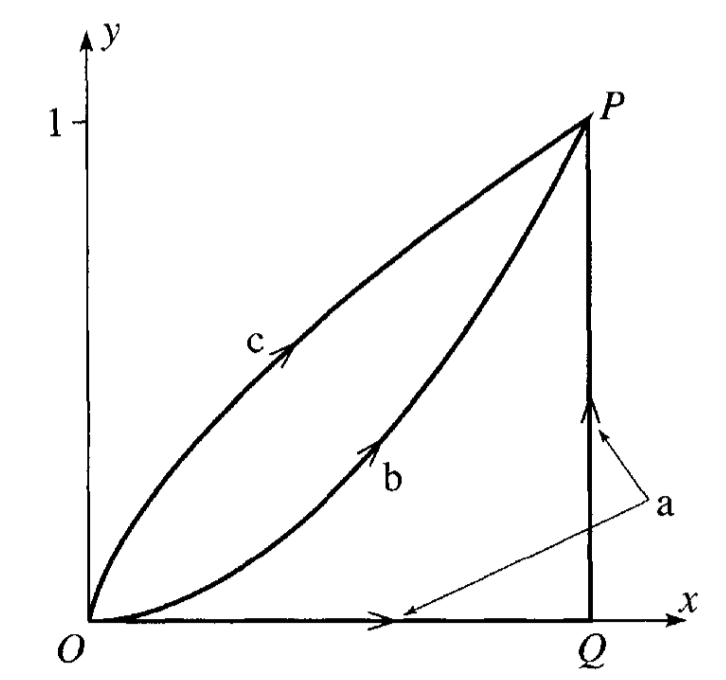
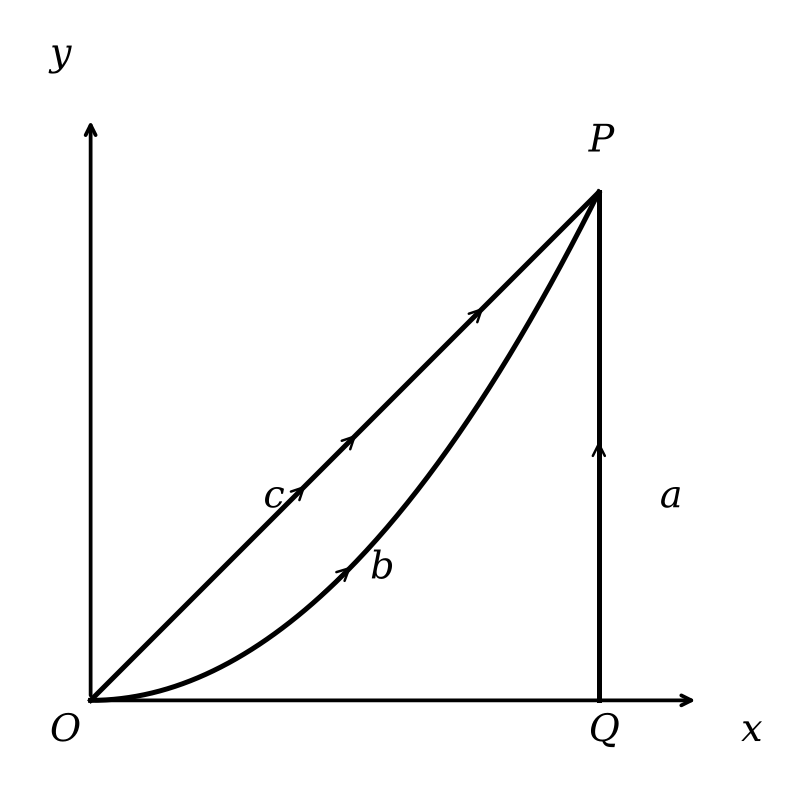
Replace activity diagrams with Matplotlib figures

diff --git a/scripts/generate_activity_figures.py b/scripts/generate_activity_figures.py
@@ -1,0 +1,138 @@
+"""Regenerate the schematic figures used by the homework activities."""
+
+from pathlib import Path
+
+import matplotlib
+
+matplotlib.use("Agg")
+
+import matplotlib.pyplot as plt
+import numpy as np
+from matplotlib.patches import Arc, Circle, FancyArrowPatch, PathPatch, Rectangle
+from matplotlib.path import Path as MplPath
+
+
+OUT = Path(__file__).resolve().parents[1] / "content/images/activities"
+
+
+def save(fig, name):
+    fig.savefig(OUT / name, dpi=180, bbox_inches="tight", pad_inches=0.08,
+                facecolor="white")
+    plt.close(fig)
+
+
+def triangle():
+    fig, ax = plt.subplots(figsize=(7, 4.3))
+    A, B, C = np.array([0.4, 0.35]), np.array([4.8, 3.65]), np.array([6.5, 0.35])
+    ax.plot([A[0], B[0], C[0], A[0]], [A[1], B[1], C[1], A[1]], color="black", lw=2)
+    for point, label, offset in [(A, "A", (-0.18, -0.18)), (B, "B", (-0.02, 0.14)),
+                                 (C, "C", (0.08, -0.18))]:
+        ax.plot(*point, "ko", ms=5)
+        ax.text(*(point + offset), label, fontsize=16, family="serif", fontstyle="italic")
+    ax.text(2.35, 2.0, "c", fontsize=16, family="serif", fontstyle="italic")
+    ax.text(5.7, 2.0, "a", fontsize=16, family="serif", fontstyle="italic")
+    ax.text(3.45, 0.02, "b", fontsize=16, family="serif", fontstyle="italic")
+    ax.add_patch(Arc(A, 0.8, 0.8, angle=0, theta1=0, theta2=37, lw=1.2))
+    ax.add_patch(Arc(B, 0.9, 0.9, angle=0, theta1=250, theta2=305, lw=1.2))
+    ax.add_patch(Arc(C, 0.8, 0.8, angle=0, theta1=143, theta2=180, lw=1.2))
+    ax.text(1.05, 0.57, r"$\alpha$", fontsize=14)
+    ax.text(4.45, 3.0, r"$\beta$", fontsize=14)
+    ax.text(5.72, 0.65, r"$\gamma$", fontsize=14)
+    ax.set(xlim=(0, 7), ylim=(0, 4.2), aspect="equal")
+    ax.axis("off")
+    save(fig, "1.15-triangle.png")
+
+
+def kid_toy():
+    fig, ax = plt.subplots(figsize=(5.2, 4.2))
+    ax.plot([-1.9, 1.9], [0, 0], color="black", lw=1.2)
+    ax.add_patch(Rectangle((-1.25, 1.2), 2.5, 2.6, fill=False, lw=1.5))
+    theta = np.linspace(np.pi, 2 * np.pi, 200)
+    ax.plot(1.25 * np.cos(theta), 1.2 + 1.2 * np.sin(theta), color="black", lw=1.5)
+    ax.plot([0, 0], [0, 1.85], color="black", lw=1.0)
+    ax.plot(0, 1.85, "ko", ms=5)
+    ax.text(-0.78, 2.05, "CM", fontsize=14, family="serif")
+    ax.text(-0.12, 1.35, "O", fontsize=14, family="serif", fontstyle="italic")
+    ax.annotate("", xy=(0, 0.08), xytext=(0, 1.28), arrowprops=dict(arrowstyle="->", lw=1))
+    ax.text(-0.12, 0.7, "R", fontsize=14, family="serif", fontstyle="italic")
+    ax.annotate("", xy=(1.75, 1.85), xytext=(1.75, 0.03), arrowprops=dict(arrowstyle="<->", lw=1))
+    ax.text(1.88, 0.9, "h", fontsize=14, family="serif", fontstyle="italic")
+    ax.set(xlim=(-2.1, 2.2), ylim=(-0.2, 4.1), aspect="equal")
+    ax.axis("off")
+    save(fig, "5.2-kid_toy.png")
+
+
+def curved_path():
+    fig, ax = plt.subplots(figsize=(10, 3.2))
+    verts = [(0.2, 0.35), (1.7, -0.1), (2.4, 0.0), (2.8, 1.2),
+             (3.2, 2.2), (3.7, 2.2), (3.9, 1.0), (4.0, 0.5),
+             (4.5, -0.1), (5.8, -0.2), (6.4, 0.2), (6.8, 1.2),
+             (7.2, 2.2), (7.7, 2.2), (7.9, 1.0), (8.0, 0.5),
+             (8.6, -0.1), (9.5, 0.0), (9.9, 0.15)]
+    codes = [MplPath.MOVETO] + [MplPath.CURVE4] * (len(verts) - 1)
+    ax.add_patch(PathPatch(MplPath(verts, codes), fill=False, lw=2, color="black"))
+    ax.annotate("", xy=(2.55, 0.18), xytext=(1.0, 0.24),
+                arrowprops=dict(arrowstyle="->", lw=1.5))
+    ax.text(1.7, 0.42, "s", fontsize=16, family="serif", fontstyle="italic")
+    ax.text(0.05, 0.2, "O", fontsize=16, family="serif", fontstyle="italic")
+    ax.set(xlim=(-0.1, 10.2), ylim=(-0.4, 2.6), aspect="equal")
+    ax.axis("off")
+    save(fig, "5.3-curved_path.png")
+
+
+def apparatus():
+    fig, ax = plt.subplots(figsize=(5.5, 5.5))
+    center, radius = np.array([0.0, 0.0]), 2.35
+    ax.add_patch(Circle(center, radius, fill=False, lw=1.8))
+    angle = np.deg2rad(-38)
+    mass = radius * np.array([np.cos(angle), np.sin(angle)])
+    ax.plot([0, mass[0]], [0, mass[1]], color="black", lw=1.5)
+    ax.plot([0, 0], [0, -2.8], "k--", lw=1)
+    ax.plot(0, 0, "ko", ms=6)
+    ax.add_patch(Circle(mass, 0.22, facecolor="0.7", edgecolor="black", lw=1))
+    ax.plot([-radius, -radius], [0, -2.45], color="black", lw=1.3)
+    ax.add_patch(Circle((-radius, -2.62), 0.16, facecolor="0.7", edgecolor="black", lw=1))
+    ax.text(0.98, -0.95, "R", fontsize=16, family="serif", fontstyle="italic")
+    ax.text(mass[0] + 0.25, mass[1] - 0.05, "M", fontsize=16, family="serif", fontstyle="italic")
+    ax.text(-2.85, -2.75, "m", fontsize=16, family="serif", fontstyle="italic")
+    ax.annotate("", xy=(0, -0.48), xytext=(0, -1.05),
+                arrowprops=dict(arrowstyle="<->", connectionstyle="arc3,rad=0.5", lw=1))
+    ax.set(xlim=(-2.9, 2.9), ylim=(-3.0, 2.8), aspect="equal")
+    ax.axis("off")
+    save(fig, "5.4-apparatus.png")
+
+
+def paths():
+    fig, ax = plt.subplots(figsize=(5.5, 5.5))
+    O, P, Q = np.array([0.0, 0.0]), np.array([1.0, 1.0]), np.array([1.0, 0.0])
+    ax.annotate("", xy=(0, 1.15), xytext=(0, 0), arrowprops=dict(arrowstyle="->", lw=1.5))
+    ax.annotate("", xy=(1.2, 0), xytext=(0, 0), arrowprops=dict(arrowstyle="->", lw=1.5))
+    ax.plot([0, 1], [0, 1], color="black", lw=2, label="c")
+    t = np.linspace(0, 1, 200)
+    ax.plot(t, t**2, color="black", lw=2, label="b")
+    ax.plot([1, 1], [0, 1], color="black", lw=2, label="a")
+    for start, end in [(0.34, 0.43), (0.43, 0.53), (0.7, 0.78)]:
+        x = np.array([start, end]); y = x
+        ax.add_patch(FancyArrowPatch((x[0], y[0]), (x[1], y[1]), arrowstyle="->", mutation_scale=12, lw=1))
+    ax.add_patch(FancyArrowPatch((0.42, 0.42**2), (0.52, 0.52**2), arrowstyle="->", mutation_scale=12, lw=1))
+    ax.add_patch(FancyArrowPatch((1, 0.38), (1, 0.52), arrowstyle="->", mutation_scale=12, lw=1))
+    ax.text(-0.08, -0.08, "O", fontsize=15, family="serif", fontstyle="italic")
+    ax.text(0.98, 1.08, "P", fontsize=15, family="serif", fontstyle="italic")
+    ax.text(0.98, -0.08, "Q", fontsize=15, family="serif", fontstyle="italic")
+    ax.text(0.34, 0.38, "c", fontsize=15, family="serif", fontstyle="italic")
+    ax.text(0.55, 0.24, "b", fontsize=15, family="serif", fontstyle="italic")
+    ax.text(1.12, 0.38, "a", fontsize=15, family="serif", fontstyle="italic")
+    ax.text(-0.08, 1.25, "y", fontsize=15, family="serif", fontstyle="italic")
+    ax.text(1.28, -0.08, "x", fontsize=15, family="serif", fontstyle="italic")
+    ax.set(xlim=(-0.15, 1.35), ylim=(-0.15, 1.35), aspect="equal")
+    ax.axis("off")
+    save(fig, "particle-paths-between-two-points.png")
+
+
+if __name__ == "__main__":
+    OUT.mkdir(parents=True, exist_ok=True)
+    triangle()
+    kid_toy()
+    curved_path()
+    apparatus()
+    paths()

diff --git a/content/notebooks/hw2.md b/content/notebooks/hw2.md
@@ -119,7 +119,7 @@ $$R_{\text{max}}=\dfrac{v_0^2}{g(1+\sin\phi)}$$
 
 ### Exercise 6 (40pt), Numerical elements, moving to more than one dimension
 
-**This exercise should be handed in as a jupyter-notebook** at D2L. Remember to write your name(s). 
+**This exercise should be handed in as a jupyter-notebook** through the course submission system. Remember to write your name(s).
 
 Last week we:
 1. Analytically mapped 1D motion over some time
